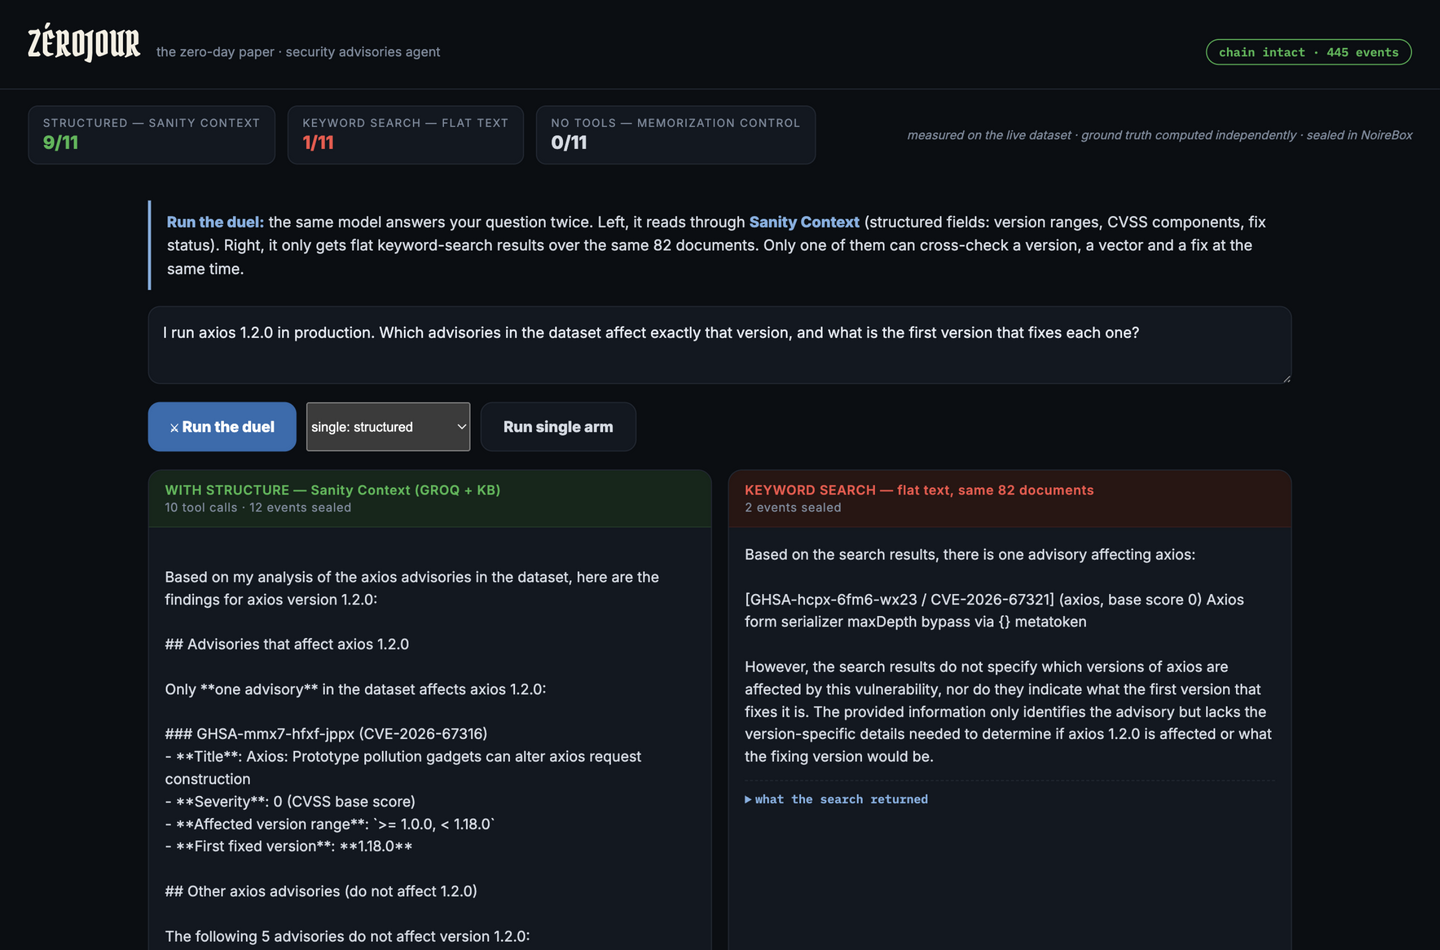
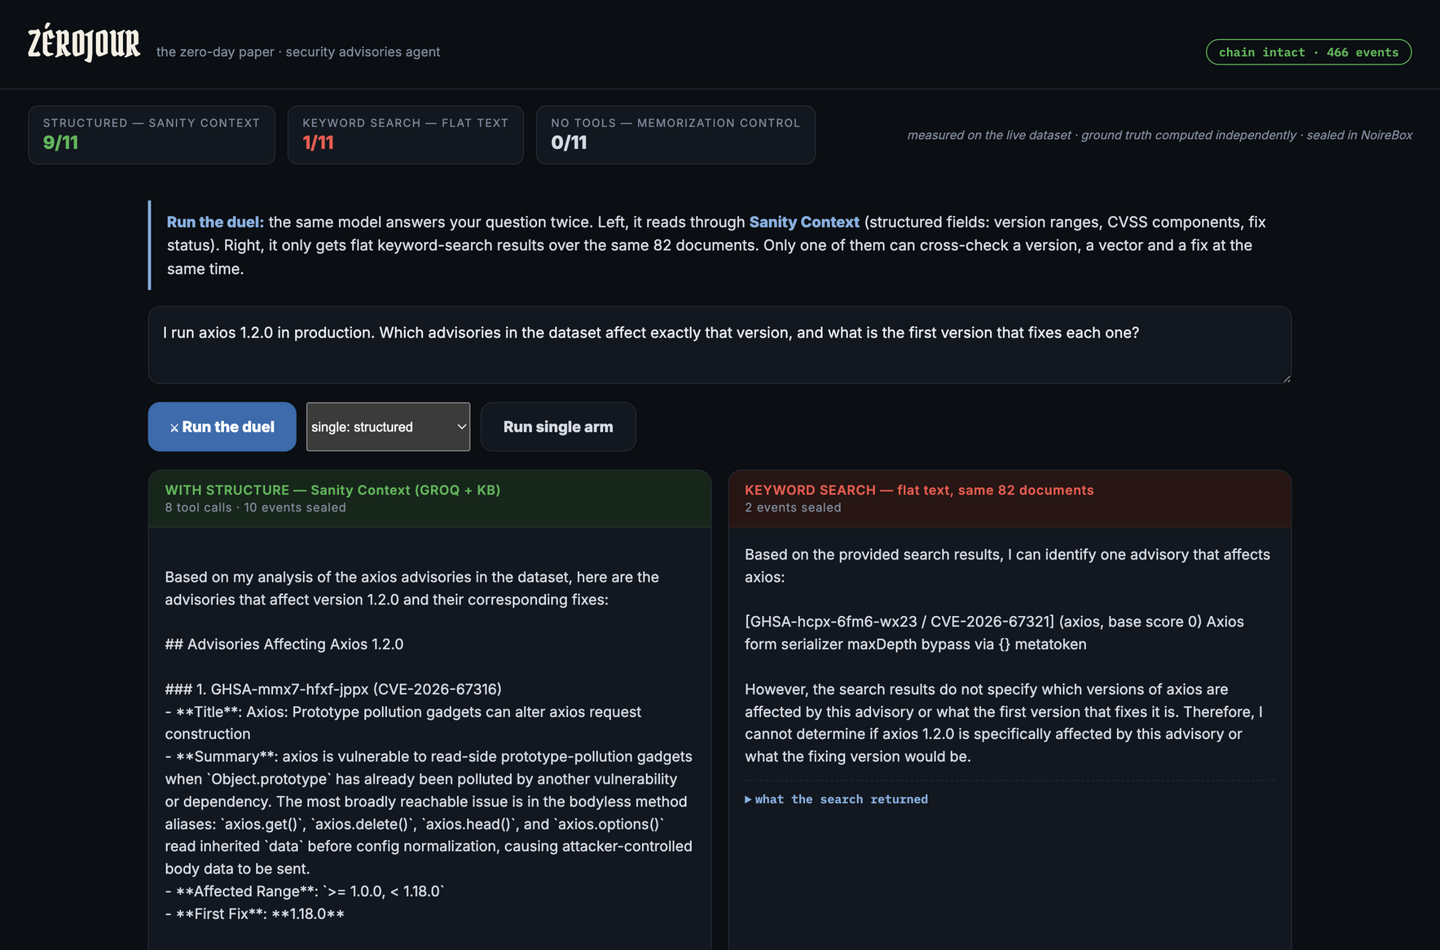
Duel-wait overlay: animated VS arena with rotating true phase captions while both arms run

diff --git a/agent/src/ui.ts b/agent/src/ui.ts
@@ -61,6 +61,29 @@ const PAGE = `<!doctype html>
   .status { font:13px 'IBM Plex Mono', monospace; color:var(--muted); padding:14px 4px; }
   .foot { text-align:center; color:var(--muted); font-size:12px; padding:26px 0 6px; }
   a { color:var(--blue); }
+  /* the duel-wait overlay: the wait is part of the show */
+  #overlay { position:fixed; inset:0; background:rgba(11,14,19,.88); backdrop-filter:blur(5px);
+             display:flex; align-items:center; justify-content:center; z-index:50; }
+  #overlay[hidden] { display:none; }
+  .arena { text-align:center; max-width:720px; padding:30px; }
+  .arena .faces { display:flex; align-items:center; justify-content:center; gap:34px; }
+  .face { border:1px solid var(--line); border-radius:14px; padding:18px 26px; background:var(--panel); width:220px; }
+  .face .name { font:800 15px Inter; letter-spacing:.06em; }
+  .face.g .name { color:var(--green); } .face.r .name { color:var(--red); }
+  .face .sub { font-size:11.5px; color:var(--muted); margin-top:4px; }
+  .face.live { animation:pulse 1.6s ease-in-out infinite; }
+  .face.g.live { border-color:var(--green); } .face.r.live { border-color:var(--red); }
+  .vs { font-family:'Pirata One', serif; font-size:54px; color:#f6f1e5; animation:vsPulse 1.6s ease-in-out infinite; }
+  @keyframes pulse { 0%,100% { box-shadow:0 0 0 0 rgba(127,178,229,0); } 50% { box-shadow:0 0 22px 2px rgba(127,178,229,.25); } }
+  @keyframes vsPulse { 0%,100% { transform:scale(1); } 50% { transform:scale(1.12); } }
+  .track { height:6px; border-radius:6px; background:var(--line); margin:26px auto 14px; max-width:520px; overflow:hidden; }
+  .track i { display:block; height:100%; width:34%; border-radius:6px;
+             background:linear-gradient(90deg, var(--green), var(--blue), var(--red));
+             animation:slide 1.8s ease-in-out infinite; }
+  @keyframes slide { 0% { transform:translateX(-110%);} 100% { transform:translateX(320%);} }
+  .caption { font:600 14px 'IBM Plex Mono', monospace; color:var(--ink); min-height:44px; max-width:640px; margin:0 auto; }
+  .caption .k { color:var(--blue); }
+  .hint { font-size:12px; color:var(--muted); margin-top:12px; }
 </style>
 </head>
 <body>
@@ -98,6 +121,20 @@ const PAGE = `<!doctype html>
   </div>
 
   <div id="status" class="status" hidden></div>
+
+  <div id="overlay" hidden>
+    <div class="arena">
+      <div class="faces">
+        <div class="face g live" id="faceG"><div class="name">WITH STRUCTURE</div><div class="sub">Sanity Context · GROQ + KB</div></div>
+        <div class="vs">VS</div>
+        <div class="face r live" id="faceR"><div class="name">KEYWORD SEARCH</div><div class="sub">flat text · same 82 docs</div></div>
+      </div>
+      <div class="track"><i></i></div>
+      <div class="caption" id="caption"></div>
+      <div class="hint">real model · real dataset · every step sealed — this usually takes 30–90 seconds</div>
+    </div>
+  </div>
+
   <div class="cols" id="duelCols" hidden>
     <div class="panel win" id="pStruct">
       <div class="head">WITH STRUCTURE — Sanity Context (GROQ + KB)
@@ -153,21 +190,31 @@ const PAGE = `<!doctype html>
     $('duelCols').hidden = false; $('singleCard').hidden = true
     $('structAnswer').textContent = ''; $('naiveAnswer').textContent = ''
     $('structSub').textContent = 'working…'; $('naiveSub').textContent = 'working…'
-    $('status').hidden = false; $('status').textContent = 'the model is answering twice — the structured arm walks the dataset, the keyword arm gets flat text…'
+    // the wait is part of the show: rotate through TRUE phase captions
+    const captions = [
+      'connecting to the <span class="k">Sanity Context</span> endpoint…',
+      'the structured arm walks the dataset — <span class="k">GROQ queries</span> on version ranges, CVSS components, fix status…',
+      'intersecting candidate ranges with <span class="k">real semver</span> (GROQ cannot compare versions)…',
+      'the keyword arm got the same 82 documents as <span class="k">flat text</span> — no fields to cross…',
+      'sealing every step into the <span class="k">NoireBox</span> journal…',
+    ]
+    let ci = 0
+    $('caption').innerHTML = captions[0]
+    const rot = setInterval(() => { ci = (ci + 1) % captions.length; $('caption').innerHTML = captions[ci] }, 4200)
+    $('overlay').hidden = false
     try {
       const res = await fetch('/api/duel', {method:'POST', headers:{'Content-Type':'application/json'}, body: JSON.stringify({question})})
       const j = await res.json()
-      if (j.error) { $('status').textContent = 'Error: ' + j.error; return }
+      if (j.error) { $('status').hidden = false; $('status').textContent = 'Error: ' + j.error; return }
       $('structAnswer').textContent = j.structured.answer
       $('structTrace').innerHTML = traceHtml(j.structured.steps)
       $('structSub').textContent = j.structured.steps.length + ' tool calls · ' + j.structured.sealed + ' events sealed'
       $('naiveAnswer').textContent = j.naive.answer
       $('naiveTrace').innerHTML = '<div class="step">' + esc(j.naive.context).slice(0, 600) + '</div>'
       $('naiveSub').textContent = j.naive.sealed + ' events sealed'
-      $('status').hidden = true
       journal()
-    } catch (err) { $('status').textContent = 'Error: ' + err.message }
-    finally { $('duel').disabled = false; $('ask').disabled = false }
+    } catch (err) { $('status').hidden = false; $('status').textContent = 'Error: ' + err.message }
+    finally { clearInterval(rot); $('overlay').hidden = true; $('duel').disabled = false; $('ask').disabled = false }
   }
 
   async function single() {
